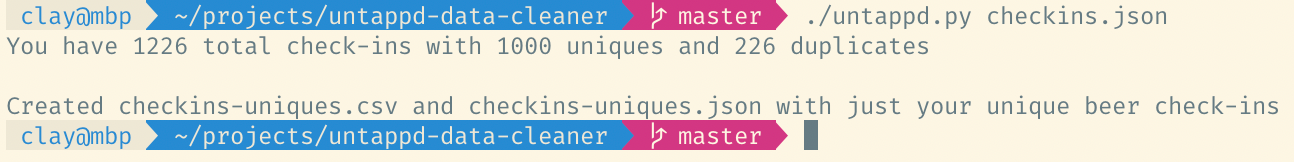
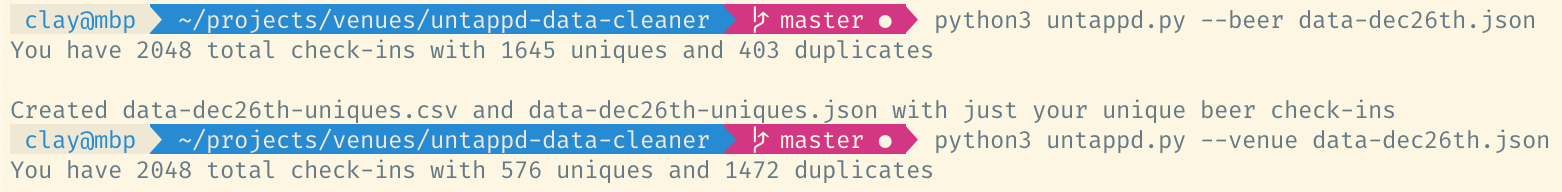
add venues as arg

Changed region(s): [[0.0, 0.5247, 1.0, 0.9568], [0.0, 0.0, 0.9892, 0.1852], [0.0, 0.216, 0.7419, 0.3395]]

diff --git a/untappd.py b/untappd.py
@@ -1,18 +1,23 @@
 #!/usr/bin/env python3
-import json
-import csv
-import argparse
+import json, csv, argparse, os
 
 p = argparse.ArgumentParser()
+p.add_argument('--beer', action='store_true', help='remove duplicate beers')
+p.add_argument('--venue', action='store_true', help='remove duplicate venues')
 p.add_argument('file', help='name of the json file to extract uniques from')
 a = p.parse_args()
 
 data = json.load(open(a.file))
-fne = str(a.file[:len(a.file)-5]) + '-uniques.csv'
-fnej = str(a.file[:len(a.file)-5]) + '-uniques.json'
+fn = os.path.splitext(a.file)[0]
+fne = f'{fn}-uniques.csv'
+fnej = f'{fn}-uniques.json'
 
-# Sort by url because some breweries name beers the same thing
-uniques = list({x['beer_url']: x for x in data}.values())
+if a.venue == True:
+    key = 'venue_name' # No venue urls, have to sort by name with consequences.
+if a.beer == True:
+    key = 'beer_url' # Sort by url because some breweries name beers the same thing
+
+uniques = list({x[key]: x for x in data}.values())
 csv_header = list(data[0].keys())  # Get headers from file
 dupes = len(data) - len(uniques)
 

diff --git a/README.md b/README.md
@@ -1,11 +1,20 @@
 # untappd-data-cleaner
 [![License](https://img.shields.io/github/license/mashape/apistatus.svg)](https://github.com/claydugo/untappd-data-cleaner/blob/master/LICENSE)
 
-[Untappd](https://untappd.com/) allows you to download your checkin data in JSON and CSV formats (if you are a [supporter](https://untappd.com/supporter)). This is great, however they do not have an option to download the data of just your 'unique' checkins. Personally I have checked in my favorite beer over 50 times with a rating of 5 stars and this skews the overall average ratings of the beer I have drank. This script will take the json file you downloaded from untappd and create both json and csv files with only your first checkins of each beer.
+[Untappd](https://untappd.com/) allows you to download your checkin data in JSON and CSV formats (if you are a [supporter](https://untappd.com/supporter)). This is great, however they do not have an option to download the data of just your 'unique' checkins. This script will take the json file you downloaded from untappd and create both json and csv files with only your first checkins of each beer.
+
+#### Why?
+For unique beers, I have personally checked in my favorite beer over 50 times with a rating of 5 stars and this skews my overall average ratings if using the standard dataset from untappd. (On your profile they calculate average from uniques only)
+
+For unique venues, I use the service Google MyMaps to create the [beer map](https://claydugo.com/beermap/) on my website and I've found it has a cap of 2000 rows for uploaded csv data. While I will have to revisit this issue once I reach 2000 venues, this solution is currently fine for the foreseeable future.
 
 ## Usage
 
-Run `python3 untappd.py <UNTAPPD-DATA>.json`
+To sort by unique beers
+Run `python3 untappd.py --beer <UNTAPPD-DATA>.json`
+
+To sort by unique venues
+Run `python3 untappd.py --venue <UNTAPPD-DATA>.json`
 
 ![output](scr/untappd-uniques-cl.png)
 
